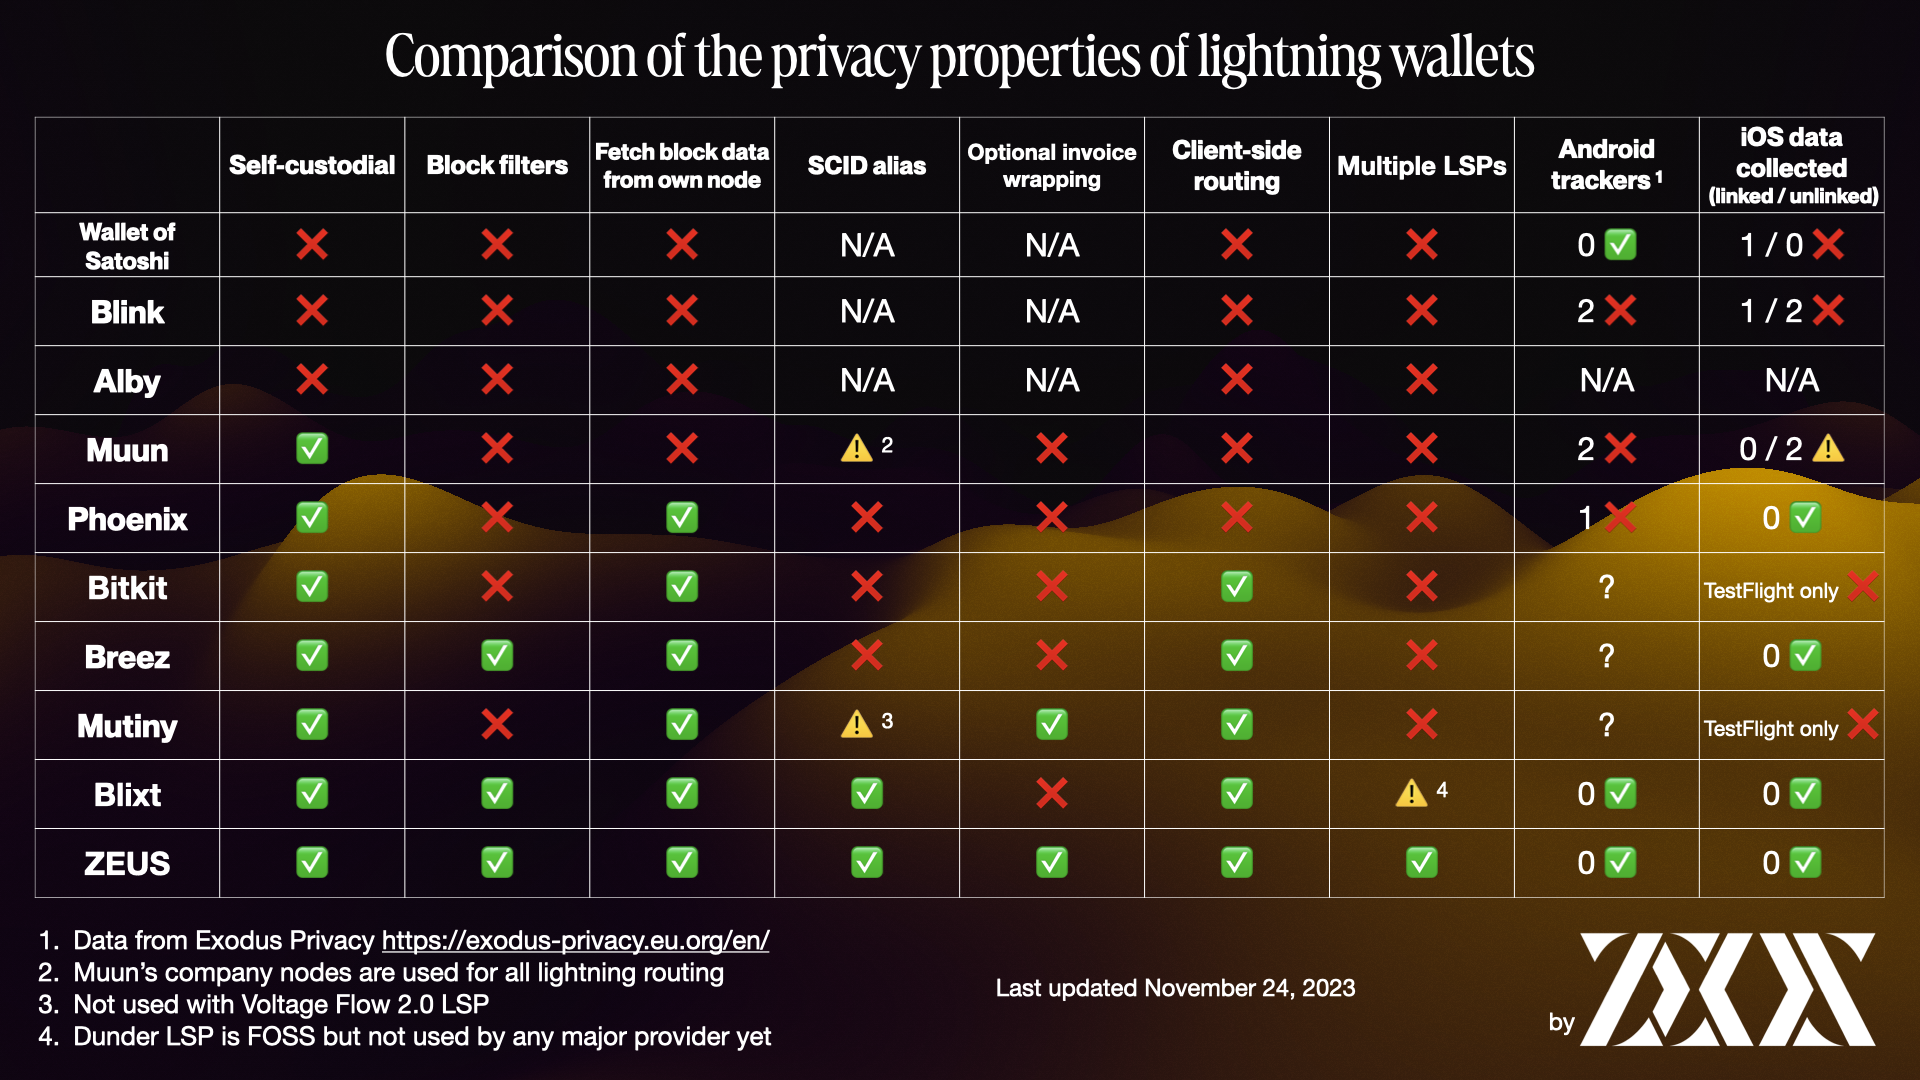
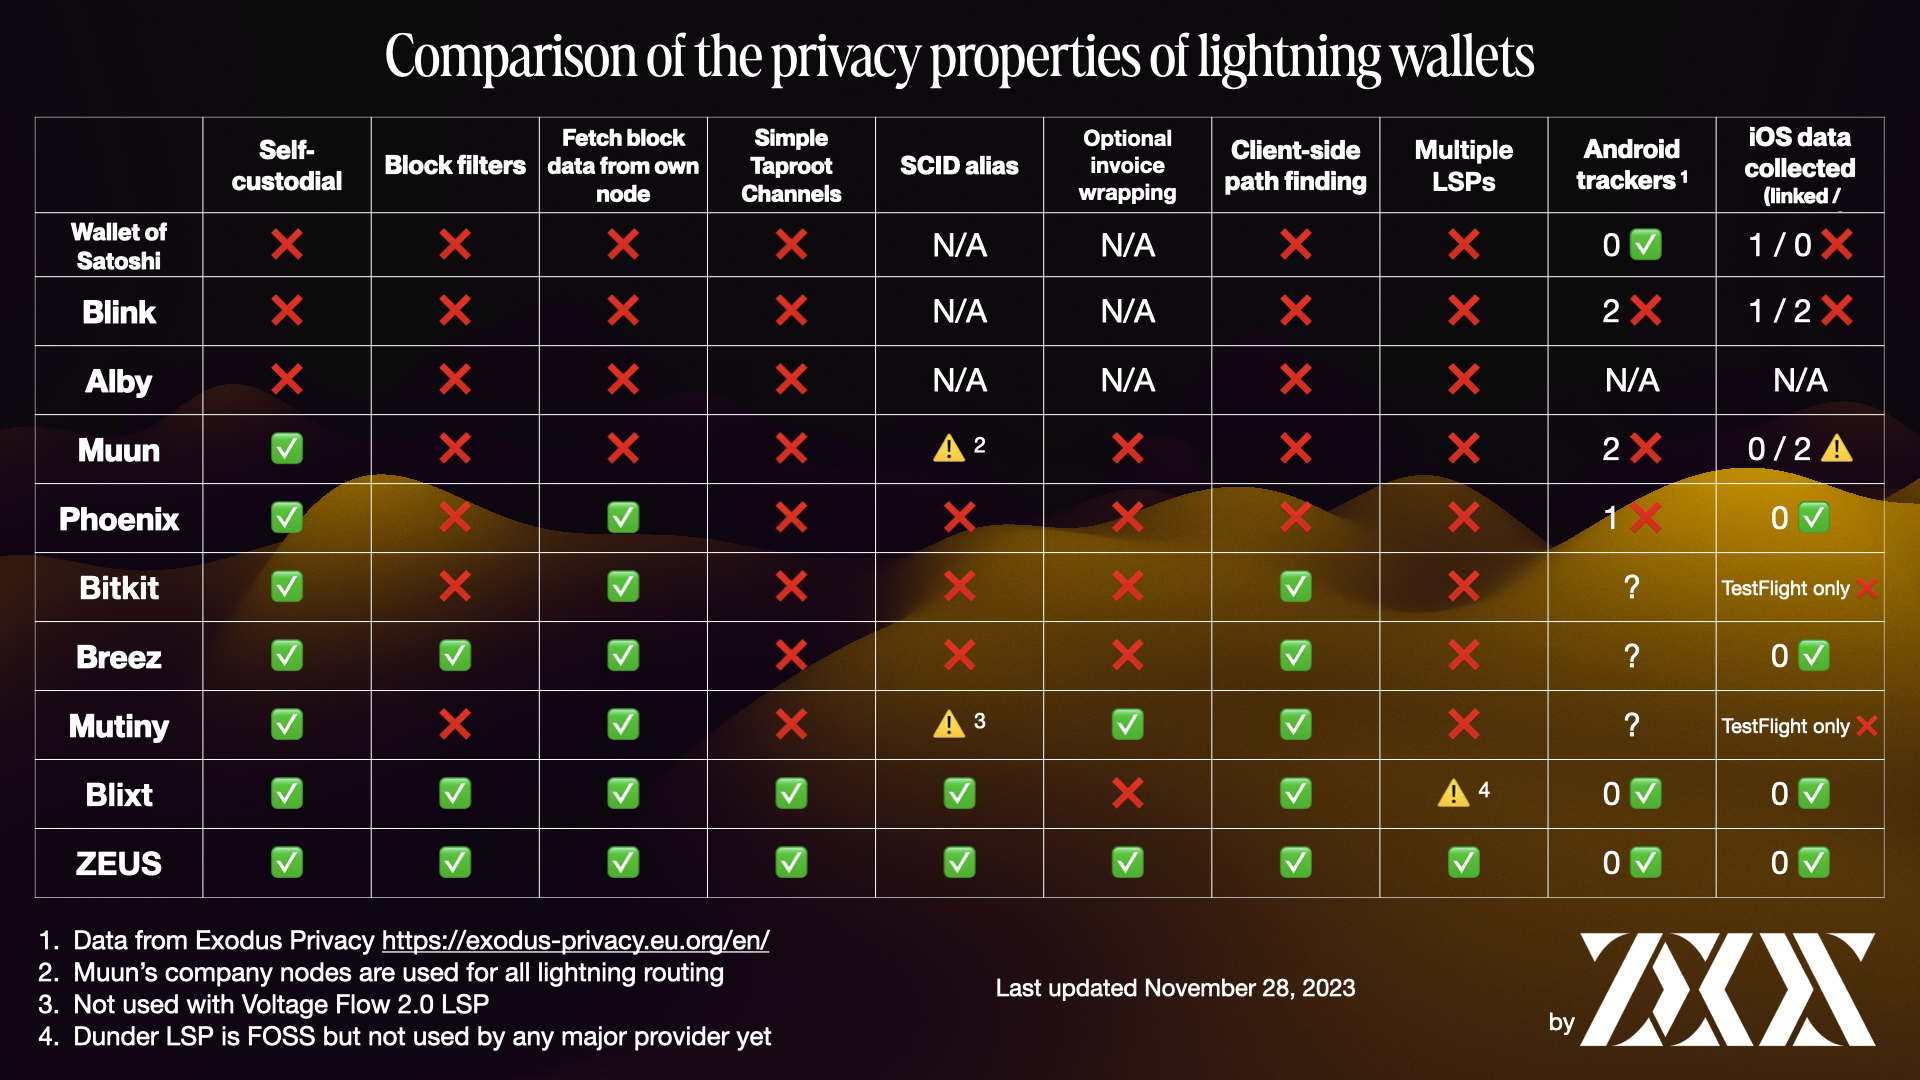
Privacy: Chart: Add simple Taproot Channels

diff --git a/docs/for-users/embedded-node/privacy.md b/docs/for-users/embedded-node/privacy.md
@@ -32,7 +32,7 @@ Block sync with ZEUS' embedded node is done using block filters and the Neutrino
 
 You can get a great technical resources on block filters over at [Bitcoin Optech](https://bitcoinops.org/en/topics/compact-block-filters/), and a more digestable overview over at [Bitcoin Magazine](https://bitcoinmagazine.com/technical/why-bitcoin-wallets-need-block-filters).
 
-## Client side path finding
+## Client-side path finding
 
 Client-side path finding: ZEUS constructs users' lightning payment paths on their devices, so we don't know the final destinations of our users' payments, even when they're forwarded through our channels.
 
